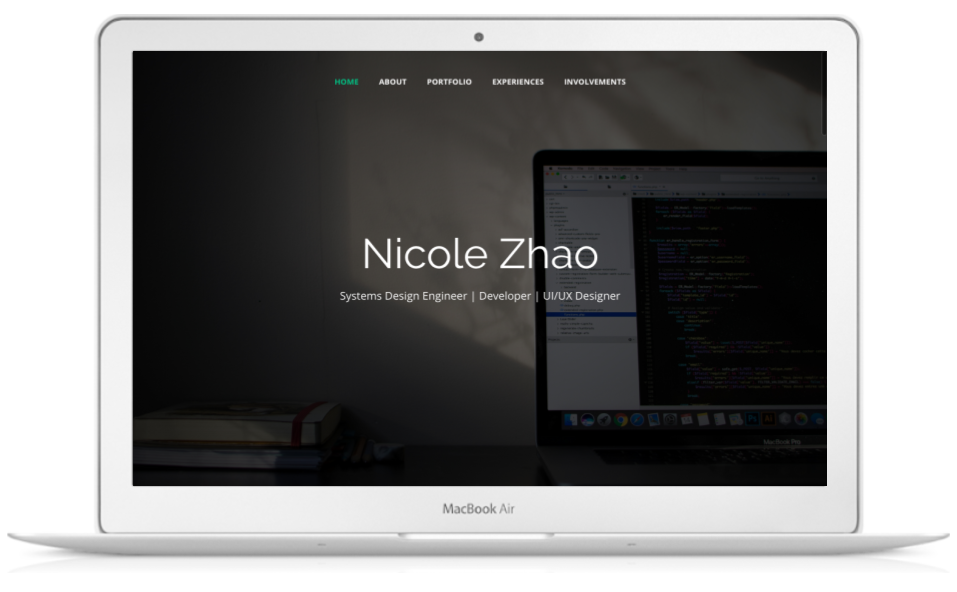
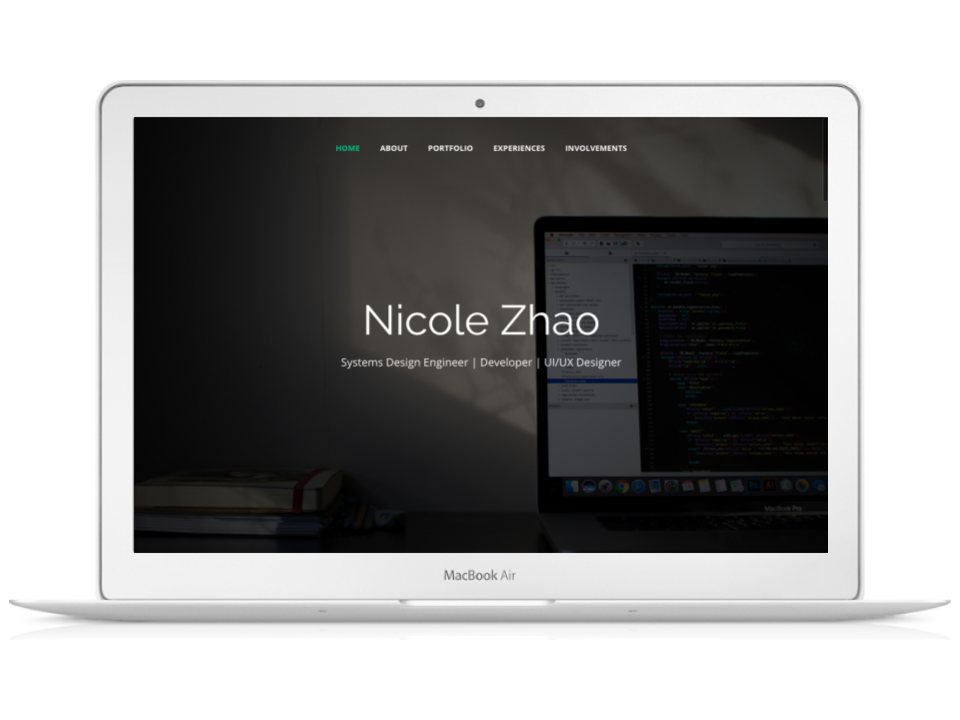
bye

Changed region(s): [[0.0, 0.0, 1.0, 0.9426], [0.5455, 0.6081, 0.5758, 0.6385], [0.5152, 0.5777, 0.5455, 0.6081]]

diff --git a/index.html b/index.html
@@ -211,7 +211,7 @@
                                 <div class="icon"> <h3>Personal Website </h3>
                                     </div>
                                     <p>Portfolio website designed and developed using HTML5/CSS, JS, and Bootstrap. </p>
-                                    <img src="images/website-ui.png" alt="Custom Image">
+                                    <img id="fit" src="images/website-ui.png" alt="Custom Image">
                                 </div>
                             </a>
                         </div>

diff --git a/css/webpage.css b/css/webpage.css
@@ -16,6 +16,10 @@ table td {
   border: 10px;
 }
 
+#fit{
+  width: 90%;
+}
+
 .image { 
    position: relative; 
    width: 100%; /* for IE 6 */
